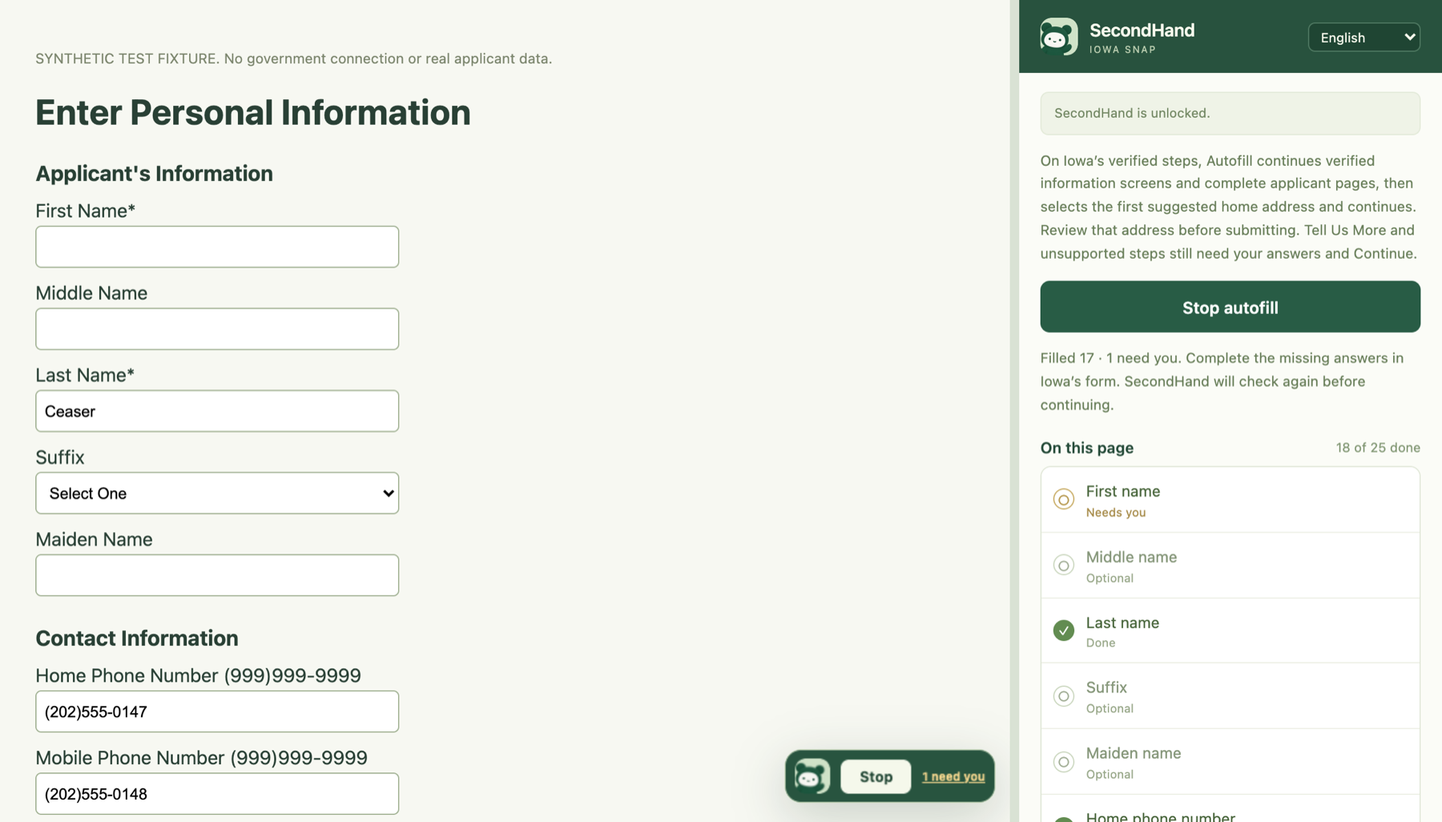
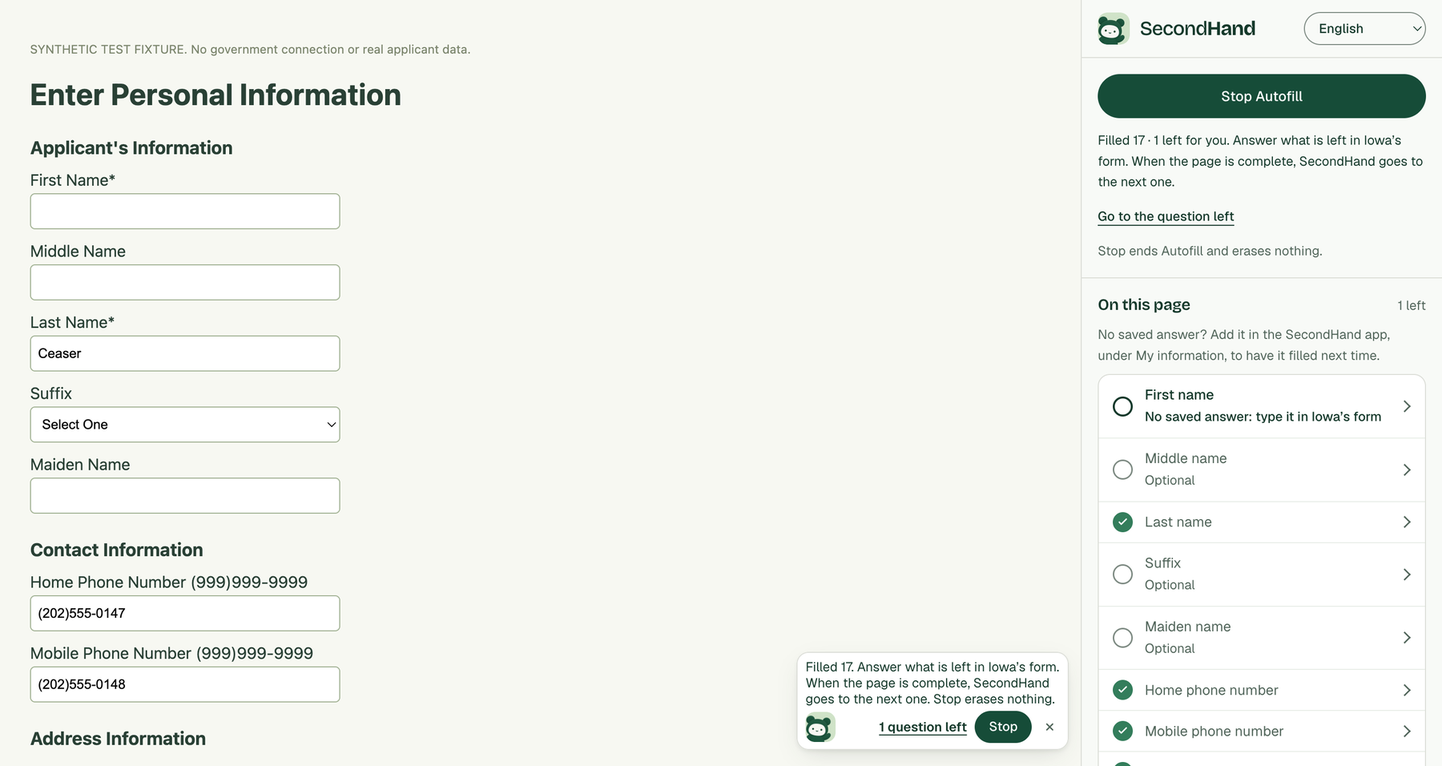
docs: describe the redesigned card and side panel
The README and the setup guide now say what the card and the side panel
say: "1 question left" in place of the yellow "need you" link, "Needs
your answer" in the checklist, the security check in place of CAPTCHA,
Start Autofill and Stop Autofill, the × that hides the card to its logo,
Unlock with Touch ID, and the Restart the card offers when Chrome runs
an older copy than the files it loaded. The contract notes the named
lists a general-engine fill result carries, and the QA guide lists the
new capture states. The README's recording and side panel picture are
taken again from this build.

diff --git a/docs/setup.md b/docs/setup.md
@@ -20,7 +20,7 @@ Create a password of at least 12 characters. SecondHand then shows a one-time re
 3. Turn on **Developer mode**, choose **Load unpacked**, and select the prepared folder. Use **Copy folder path** in SecondHand to find it:
    - On Mac, press **Command + Shift + G** inside Chrome's folder chooser, paste the path, and open/select that folder.
    - On Windows, paste the path into the folder chooser's address bar, then choose **Select Folder**.
-4. Keep the desktop app running and unlocked while using the extension. A SecondHand widget appears in the bottom-right corner of Iowa's portal. On the supported applicant page it shows an **Autofill** button; on other pages it is a small **s.** button that opens the side panel.
+4. Keep the desktop app running and unlocked while using the extension. A SecondHand card appears in the bottom-right corner of Iowa's portal. On a page it can fill it says what Autofill will do and shows an **Autofill** button; on other pages only its round logo shows, which opens the side panel.
 
 There is no extension ID to copy for the bundled extension. Preparing files does **not** install the extension in Chrome: you still complete steps 2–3 yourself. The setup screen cannot verify that you have completed Chrome's installation. Managed school or work browsers may prohibit unpacked extensions; follow that device's policy.
 
@@ -28,13 +28,13 @@ The prepared extension folder stays in the local SecondHand app-data directory. 
 
 ## Apply on Iowa's portal
 
-Open [Iowa's Self-Service Portal](https://hhsservices.iowa.gov/apspssp/ssp.portal) in **Chrome**. The desktop's portal button uses your default browser, which may be different. The widget and side panel identify the current step without retrieving your saved profile. Choose the guest flow or create/sign into your own Iowa account. Complete the initial program-intent screen, verification, and data-use consent yourself.
+Open [Iowa's Self-Service Portal](https://hhsservices.iowa.gov/apspssp/ssp.portal) in **Chrome**. The desktop's portal button uses your default browser, which may be different. The card and side panel identify the current step without retrieving your saved profile. Choose the guest flow or create/sign into your own Iowa account. Complete the initial program-intent screen, verification, and data-use consent yourself.
 
-Start the application and click **Autofill** in the widget (or **Autofill this page** in the side panel). Autofill then stays on for that tab and works screen by screen:
+Start the application and click **Autofill** on the card (or **Start Autofill** in the side panel). Autofill then stays on for that tab and works screen by screen:
 
 | Screen | What Autofill does |
 | --- | --- |
-| Household Application Information | Picks **Yes** when one of your saved programs (SNAP, FIP, Medicaid) is an explicit Yes, then asks you to solve the CAPTCHA and click Continue |
+| Household Application Information | Picks **Yes** when one of your saved programs (SNAP, FIP, Medicaid) is an explicit Yes, then asks you to type the characters in Iowa's security check (the CAPTCHA) and click Continue |
 | Before You Start, Important Information, Instructions | Clicks Continue for you (these screens send no answers) |
 | Let's get started | Waits for you to read and accept Iowa's consent |
 | About you, Assisting Organization or Person | Waits for you to click Continue (leave the assisting fields blank if nobody is helping you) |
@@ -43,16 +43,16 @@ Start the application and click **Autofill** in the widget (or **Autofill this p
 | Tell Us More (verified primary-applicant context) | Fills saved date of birth. On the `dynamicQuestionsStart` layout it also fills the answers you saved under **About you** in My information: male or female, marital status, having a Social Security number (never the number itself) and whether your name matches the card, U.S. citizenship, military or veteran, disabled, blind, health limitation, and Medicare. A question you haven't saved, and Continue, stay manual |
 | Other Iowa pages | May fill generic rule matches after desktop approval; review them and continue yourself. Unmatched or protected steps remain manual |
 
-After you finish a step and continue, Autofill picks up on the next screen. Click **Stop** in the widget, or **Stop autofill** in the side panel, to end it. Locking SecondHand, leaving Iowa's site, or closing the tab also ends it, and it stops after 15 automatic steps so you can check where you are.
+After you finish a step and continue, Autofill picks up on the next screen. Click **Stop** on the card, or **Stop Autofill** in the side panel, to end it. Stop erases nothing. Locking SecondHand, leaving Iowa's site, or closing the tab also ends it, and it stops after 15 automatic steps so you can check where you are.
 
 On **Enter Personal Information**, one click fills every empty supported field from your saved profile. It also fills fields that your saved answers reveal, such as a separate mailing address. It fills explicit saved Yes/No and program choices but never infers them from your address, income, or other facts. It never changes an answer that is already on the page.
 
-The first time, the desktop app asks before sharing your saved answers. Choose **Allow once** to be asked again next time, or **Always allow on this computer** to skip the pop-up whenever the app is unlocked. Turn that off under **Chrome extension → Let Chrome autofill without asking**. Locking the vault, manually, after 10 idle minutes, or when your computer sleeps or locks, stops autofill until you unlock again. The widget then shows **Unlock SecondHand**, which brings the app to the front.
+The first time, the desktop app asks before sharing your saved answers. Choose **Allow once** to be asked again next time, or **Always allow on this computer** to skip the pop-up whenever the app is unlocked. Turn that off under **Chrome extension → Let Chrome autofill without asking**. Locking the vault, manually, after 10 idle minutes, or when your computer sleeps or locks, stops autofill until you unlock again. The card then shows **Unlock SecondHand**, which brings the app to the front; the side panel's **Unlock** does the same, or offers **Unlock with Touch ID** on a Mac where the app has it turned on.
 
 
-After filling, the card shows a yellow **N need you** link when something is missing. Click it to jump to each missing field in turn. Click the SecondHand logo on the card to open the side panel, which shows how many answers were filled and lists each relevant question as **Done**, **Needs you**, **Optional**, or **Do it yourself**. Click a row to bring that field into view. Checkmarks describe the form's completeness, not agency approval.
+After filling, the card says what Autofill did and shows an **N questions left** link when something is missing. Click it to jump to each missing field in turn. The card's × hides it to its logo for the rest of that tab; the logo brings it back, and carries a dot while the hidden card has something for you. Click the logo to open the side panel, which says what was filled, has a **Go to the question left** link, and lists each relevant question as **Done**, **Needs your answer**, **Optional**, or **Do it yourself**. Click a row to bring that field into view. Checkmarks describe the form's completeness, not agency approval.
 
-Autofill can use **Save and Continue** on the verified complete applicant page and home-address confirmation. It never operates consent, CAPTCHA, sign-in, signature, or final Submit controls. Iowa may save answers as they are entered or a page is continued. Review every answer and the selected address before final submission.
+Autofill can use **Save and Continue** on the verified complete applicant page and home-address confirmation. It never operates consent, the security check (CAPTCHA), sign-in, signature, or final Submit controls. Iowa may save answers as they are entered or a page is continued. Review every answer and the selected address before final submission.
 
 **Current scope is the initial applicant page:** names, suffix, maiden name, explicit home/mobile phones, home/mailing addresses and address questions, applying-for-benefits choice, saved SNAP/FIP/Medicaid choices, optional medical-bill help choice, and best time to call. This development branch also covers the verified home-address selection and the Tell Us More answers described above. Tell Us More answers you haven't saved and its Next button remain manual. Generic rule matching may help fill other unverified Iowa pages, but it does not give those pages verified mappings or automatic Next. Public 0.4 installers predate these changes. The helper can scroll rendered fields into view; it skips hidden, covered, ambiguous, and already-entered fields. Review every filled answer. Iowa can receive or save information as it is entered, and Save and Continue sends the page's current answers to Iowa.
 
@@ -68,11 +68,11 @@ To turn it off, choose **Turn off on all websites** in the sidebar, or **Turn of
 
 ## Updates and troubleshooting
 
-- **Update the desktop app:** install the new version and open it. The next time the extension talks to the app, for example when you open the side panel or click **Autofill**, the app refreshes its extension folder and SecondHand reloads itself in Chrome. It waits until no Autofill is on and no fill, approval, or click is under way, and while a page still shows questions that need you or answers to save, until you leave that page or close its tab. The side panel then says once that SecondHand was updated. SecondHand’s button on a form page that was open asks you to reload that page: save or finish unsaved work first, because Iowa's guest flow can lose unsaved answers. If Chrome asks, review the updated permissions. The extension ID and local folder stay the same. Keep **Developer mode** on at `chrome://extensions`: Chrome turns unpacked extensions off without it.
+- **Update the desktop app:** install the new version and open it. The next time the extension talks to the app, for example when you open the side panel or click **Autofill**, the app refreshes its extension folder and SecondHand reloads itself in Chrome. It waits until no Autofill is on and no fill, approval, or click is under way, and while a page still shows questions that need you or answers to save, until you leave that page or close its tab. The side panel then says once that SecondHand was updated. On a form page that was open, SecondHand's card says it is back on the next page and asks you to reload this one, or go on: save or finish unsaved work first, because Iowa's guest flow can lose unsaved answers. If the card says SecondHand was updated and offers **Restart** (Chrome has the new files but still runs the old copy), click **Restart**, then reload the page or go on to the next one. If Chrome asks, review the updated permissions. The extension ID and local folder stay the same. Keep **Developer mode** on at `chrome://extensions`: Chrome turns unpacked extensions off without it.
 - **Went back to an older app:** an older app never replaces the newer extension files a newer app prepared, so SecondHand keeps the newer extension. **Refresh extension files** in the older app says so. Install the newer app again to update.
 - **Update from a version without automatic updates (including public 0.4):** that extension can't update itself, so do it once by hand. Open **Chrome extension** in the app, choose **Refresh extension files**, then click **Reload** for SecondHand on `chrome://extensions`, and reload your Iowa tab. Later updates are automatic.
 - **The side panel shows update steps:** if it says SecondHand couldn't update its extension files, the app couldn't write its folder. Choose **Refresh extension files** on the app's **Chrome extension** page, then click **Reload** for SecondHand on `chrome://extensions`. If it says Chrome is running a copy the app doesn't update, Chrome loads SecondHand from another folder. Remove that copy on `chrome://extensions`, then **Load unpacked** the folder from **Copy folder path**.
-- **Helper does not appear:** confirm SecondHand is enabled at `chrome://extensions`, its Iowa site access is allowed, and you are on the official portal in Chrome. Reload the Iowa tab after installing or reloading the extension. Click the widget or the toolbar icon to open the side panel. No saved profile values are requested merely by opening it.
+- **Helper does not appear:** confirm SecondHand is enabled at `chrome://extensions`, its Iowa site access is allowed, and you are on the official portal in Chrome. Reload the Iowa tab after installing or reloading the extension. Click the card's logo or the toolbar icon to open the side panel. No saved profile values are requested merely by opening it.
 - **Moved the app:** prepare/refresh the extension again to update Chrome's native-host registration. On Mac, keep the app in Applications rather than running it from the mounted disk image.
 - **Cannot reach the vault:** open/unlock SecondHand, refresh the extension files, reload the extension in Chrome, and try again. Only Chrome is configured by this setup; Edge and other browsers are not automatically configured.
 - **Old manually unpacked copy:** remove the old copy from Chrome, then load the folder prepared by this version. The app preserves vault data when refreshing extension assets.

diff --git a/README.md b/README.md
@@ -19,7 +19,7 @@
 </p>
 
 <p align="center">
-  <img src="docs/media/autofill.gif" width="880" alt="The SecondHand card in the corner of Iowa's application. A click on Autofill fills the saved answers, a yellow '1 need you' link appears, and clicking it jumps to the empty First Name field, where Daniel is typed.">
+  <img src="docs/media/autofill.gif" width="880" alt="The SecondHand card in the corner of Iowa's application. A click on Autofill fills the saved answers, a '1 question left' link appears, and clicking it jumps to the empty First Name field, where Daniel is typed. The page is then complete, so SecondHand clicks Save and Continue.">
   <br>
   <sub>A fictional applicant on a synthetic copy of Iowa's form. Nothing is sent anywhere.</sub>
 </p>
@@ -33,10 +33,10 @@
 - **Sets up in about five minutes.** Right after you create your password, a short guided setup walks you through six steps: you, your household, where you live, income and money on hand, programs, and Iowa's questions about you. Each step is saved as you go. Skip it, or stop part way, and finish it later from Overview.
 - **Knows your household.** List the people you live with once, with their birth dates. SecondHand works out the counts forms ask for, such as "How many people 0–17?", "18–59", or "60 and older", and fills a student's name and grade when one person on the list is a student. It never guesses a guardian's name.
 - **Fills Iowa's application in one click.** Click **Autofill** in the corner of Iowa's portal. SecondHand fills the questions it knows, moves past screens that only give information, and stops wherever you're needed.
-- **Shows what still needs you.** A yellow **1 need you** link jumps to each missing answer. Click the SecondHand logo on the card to open Chrome's side panel, which marks every question on the page as **Done**, **Needs you**, **Optional**, or **Do it yourself**.
+- **Shows what is left for you.** The card says what Autofill did, and a **1 question left** link jumps to each missing answer. Click the SecondHand logo on the card to open Chrome's side panel, which marks every question on the page as **Done**, **Needs your answer**, **Optional**, or **Do it yourself**. The card's × hides it to its logo until you want it back.
 - **Saves what you type for next time.** When Autofill finds a question it knows but you hadn't saved an answer for, answer it on the page and click **Save to My information** in the side panel. SecondHand reads that one answer only after your click, and the app asks before it saves it.
 - **Answers the questions the rules miss.** Laya, a small AI model that runs inside the desktop app, picks an answer from your saved facts when it's confident, and marks it as a guess for you to check. When your facts don't say, it leaves the question for you.
-- **Leaves the decisions to you.** The app asks before sharing anything, unless you choose **Always allow**. CAPTCHA, consent, signatures, and final submission are always yours.
+- **Leaves the decisions to you.** The app asks before sharing anything, unless you choose **Always allow**. Iowa's security check (the CAPTCHA), consent, signatures, and final submission are always yours.
 - **Speaks your language.** The side panel works in English, Spanish, Vietnamese, Chinese, French, and Arabic. It can show Iowa's questions in your language and sum up long pages, using Chrome's built-in translator and summarizer on your computer.
 - **Helps with other food-assistance forms.** Turn SecondHand on for a food pantry's form site, or for every site at once with **Use SecondHand on all websites** in Chrome's side panel. It fills what it recognizes, one click at a time, and never navigates or submits on those sites. With all websites on, its card shows only on pages with a form it can help with.
 
@@ -46,9 +46,9 @@
 | --- | --- |
 | <img src="docs/media/desktop-my-information.png" alt="The My information page of the SecondHand desktop app, with the fictional applicant Daniel Ceaser's name, date of birth, and program choices" width="100%"> | <img src="docs/media/desktop-overview.png" alt="The SecondHand desktop app's Overview: a Prepare my application button, three next steps, and one Iowa SNAP application in progress" width="100%"> |
 
-**On Iowa's portal, with Chrome's side panel open.** The card in the corner says one answer still needs you; the side panel shows which one.
+**On Iowa's portal, with Chrome's side panel open.** The card in the corner says one question is left for you; the side panel shows which one.
 
-<img src="docs/media/side-panel.png" alt="Iowa's Enter Personal Information page with Last Name filled and First Name empty, the SecondHand card showing Stop and 1 need you, and the side panel checklist marking First name as Needs you and Last name as Done" width="100%">
+<img src="docs/media/side-panel.png" alt="Iowa's Enter Personal Information page with Last Name filled and First Name empty, the SecondHand card showing Stop and 1 question left, and the side panel checklist marking First name as having no saved answer to type in Iowa's form, and Last name as Done" width="100%">
 
 ## How it works
 
@@ -88,7 +88,7 @@ Rules fill the questions SecondHand knows. For the rest, the desktop app asks La
 2. **The desktop app writes your saved profile as plain facts**, such as "The household has 1 person", on your computer.
 3. **Laya scores every option.** For each one it answers a single yes/no question: given the facts about the household, is this the correct answer to the form question? "None of these, or the facts don't say" is scored too.
 4. **It fills only a sure answer**, one that scores over 0.9 and beats "None of these". The answer gets a dashed amber outline and the summary says it was suggested by Laya, so you know to check it. On sites other than Iowa's portal, the app asks before it uses sensitive details such as your age.
-5. **Otherwise the question stays yours**, marked **Needs you** in the side panel.
+5. **Otherwise the question stays yours**, marked **Needs your answer** in the side panel.
 
 Laya also matches text boxes the rules don't recognize to the saved detail they ask for, such as a differently worded name or phone field.
 
@@ -100,14 +100,14 @@ Laya is [fine-tuned](docs/laya-model.md) from the open [Laya](https://huggingfac
 2. **Create a password.** Save the recovery key the app shows you somewhere safe, away from the computer. If you ever forget your password, choose **Forgot password?** and use that key, or reset it on the same computer if you left that option on. With neither, **Start over** erases the saved information so you can make a new password.
 3. **Add the extension to Chrome.** In the app, open **Chrome extension** and click **Prepare Chrome extension**. In Chrome, go to `chrome://extensions`, turn on **Developer mode**, click **Load unpacked**, and choose the folder the app prepared (**Copy folder path** helps you find it). You only do this once.
 4. **Apply.** Keep SecondHand unlocked and open [Iowa's portal](https://hhsservices.iowa.gov/apspssp/ssp.portal) in Chrome 116 or newer. Start your application and click **Autofill** in the bottom-right corner. The first time, the app asks: choose **Allow once**, or **Always allow on this computer**.
-5. **Finish it yourself.** Click **need you** to jump to anything missing. Review every answer, including the home address SecondHand picked. Then do the consent, signatures, and submission, and save Iowa's confirmation number under **Applications** in the app.
+5. **Finish it yourself.** Click **1 question left** on the card to jump to anything missing. Review every answer, including the home address SecondHand picked. Then do the consent, signatures, and submission, and save Iowa's confirmation number under **Applications** in the app.
 
 The [setup guide](docs/setup.md) covers each step in detail, including how to find the folder on a Mac and what to do when something goes wrong.
 
 <details>
 <summary><strong>Updating from an earlier version</strong></summary>
 
-Install the new app and open it. The next time you use the extension, SecondHand refreshes its files and reloads itself in Chrome, once nothing is filling. The side panel then says it was updated. Reload any form page that was open, after you save or finish it, so reloading doesn't lose unsaved answers. Keep **Developer mode** on at `chrome://extensions`, or Chrome turns SecondHand off.
+Install the new app and open it. The next time you use the extension, SecondHand refreshes its files and reloads itself in Chrome, once nothing is filling. The side panel then says it was updated. On a form page that was open, the card says SecondHand is back on the next page: reload that page, after you save or finish it so reloading doesn't lose unsaved answers, or go on to the next one. If the card instead says SecondHand was updated and offers **Restart**, click it first. Keep **Developer mode** on at `chrome://extensions`, or Chrome turns SecondHand off.
 
 Coming from a version without automatic updates, such as the public 0.4 downloads, do it by hand once: open **Chrome extension** in the app and click **Refresh extension files**, then click **Reload** for SecondHand at `chrome://extensions` and reload your Iowa tab. If Chrome asks, review the updated permissions.
 
@@ -119,14 +119,14 @@ Autofill works screen by screen and stays on for the tab until you click **Stop*
 
 | Iowa screen | What SecondHand does |
 | --- | --- |
-| Household Application Information | Picks **Yes** when one of your saved programs is a clear yes. You solve the CAPTCHA and continue. |
+| Household Application Information | Picks **Yes** when one of your saved programs is a clear yes. You type the characters in Iowa's security check and continue. |
 | Before You Start, Important Information, Instructions | Clicks Continue for you. These screens send no answers. |
 | Let's get started, About you | Waits for you to accept Iowa's consent or click Continue. |
 | **Enter Personal Information** | Fills your saved names, phones, home and mailing addresses, and program choices. Waits for missing required answers, then clicks Save and Continue. |
 | Select Address (verified home-only layout) | Picks Iowa's first suggested home address and continues. Check it before you submit. |
 | Tell Us More | Fills your saved date of birth and the answers you saved under About you in My information. Anything not saved stays with you. |
 | Other Iowa pages | May fill matching saved answers after you approve, and Laya's sure answers to other questions, marked as guesses. You continue. |
-| CAPTCHA, consent, signatures, final Submit | Never touched. |
+| Security check (CAPTCHA), consent, signatures, final Submit | Never touched. |
 
 The Select Address and Tell Us More steps and Laya are in this code but not yet in the public 0.4 downloads. SecondHand never changes an answer already on the page, and any answer Laya picks is marked as a guess for you to check. [Portal coverage](docs/iowa-portal.md) has the exact field list.
 

diff --git a/docs/security.md b/docs/security.md
@@ -66,7 +66,7 @@ The extension uses Manifest V3, `activeTab`, `scripting`, `nativeMessaging`, and
 
 The page-hosted widget is an extension-origin iframe inside a closed shadow root, so the page cannot script it. The worker binds its requests to the iframe's own tab and accepts Autofill only from a trusted click with `confirmed: true`. The checklist lives in Chrome’s native sidebar. The worker accepts applicant operations only from the supported extension surfaces; content scripts and page `postMessage` calls have no direct path to the vault. Displaying either surface does not start filling. Iowa requests validate the exact HTTPS origin and portal path; other sites use their approved HTTPS origins.
 
-The widget and sidebar receive field metadata, completion/missing/manual status, counts, and messages, never saved profile values or input values entered on the page. The one path that reads an answer typed on the page is [Save to My information](#save-to-my-information), and only after the applicant's click; that answer goes to the desktop app, not to either surface. Clicking a checklist item or a **need you** link asks the content script to focus the corresponding control; it does not retrieve a saved answer. Generic mapping may send unmatched field labels, types, and choice text to Chrome's on-device AI in the extension page. It receives only allowed profile-key names, never saved answers, and has no cloud fallback. The mapper uses an already available local model rather than starting a model download. Plans and autofill results live in worker memory and clear when the tab navigates or closes, or when Chrome stops the idle worker (the next Autofill finds them again); no applicant record is written to extension storage or an application backend.
+The widget and sidebar receive field metadata, completion/missing/manual status, counts, and messages, never saved profile values or input values entered on the page. The one path that reads an answer typed on the page is [Save to My information](#save-to-my-information), and only after the applicant's click; that answer goes to the desktop app, not to either surface. Clicking a checklist item, the side panel's **Go to the question left** link, or the card's **questions left** link asks the content script to focus the corresponding control; it does not retrieve a saved answer. The named lists of questions filled and left, shown on other websites, carry the form's own labels, never answers. Generic mapping may send unmatched field labels, types, and choice text to Chrome's on-device AI in the extension page. It receives only allowed profile-key names, never saved answers, and has no cloud fallback. The mapper uses an already available local model rather than starting a model download. Plans and autofill results live in worker memory and clear when the tab navigates or closes, or when Chrome stops the idle worker (the next Autofill finds them again); no applicant record is written to extension storage or an application backend.
 
 The sidebar's "What this page says" section sends a page's visible text to Chrome's on-device Summarizer in the extension page. The text leaves out form controls, their choices, SecondHand's widget, and hidden content, so it never holds a typed or saved answer. On Iowa, only the information-only screens are read. Other sites are read only after they are turned on. The Summarizer model downloads only after the applicant clicks. Page text and key points live in worker memory for the tab. Iowa screens are kept until the tab leaves Iowa or closes. There is no cloud fallback.
 

diff --git a/docs/implementation-contract.md b/docs/implementation-contract.md
@@ -117,7 +117,7 @@ Both may poll `ui:pageState`, send `ui:focusField` from a trusted click, and sen
 
 A step runs when the tab finishes loading and on widget polls. Autopilot turns off after 15 steps, on a locked or unreachable desktop, on a cancelled or failed fill, when the tab closes, or when a page load leaves Iowa's portal. The worker re-reads the tab on every load, because Chrome hides other sites' URLs without the `tabs` permission. Values are released when each fill finishes.
 
-The result is `{ state: 'done' | 'waiting' | 'continuing' | 'stopped' | 'locked' | 'offline' | 'error', filled, needYou, message, todo?, pageKey }`. It is kept per tab until that tab navigates. `ui:pageState` returns `{ page, scan, result, autopilot }`.
+The result is `{ state: 'done' | 'waiting' | 'continuing' | 'stopped' | 'locked' | 'offline' | 'error', filled, needYou, message, todo?, pageKey }`. A general-engine fill (an approved site, or an Iowa page the adapter hasn't verified) adds `left: [{ key, label }]`, the questions left for the applicant with the form's own labels, and `filledQuestions: [{ label, guessed }]` (at most 80), the questions it filled; the side panel lists both by label. It is kept per tab until that tab navigates. `ui:pageState` returns `{ page, scan, result, autopilot }`.
 
 Save to My information (#98): after a general-engine fill (an approved site, or an Iowa page the adapter hasn't verified), the worker keeps, per tab and in memory only, the questions the rules matched to a `SAVE_FIELDS` key whose saved value was blank: `{ frameId, planId, token, key, label }`, forgotten when the tab navigates or a new fill replaces them. For the side panel only, `ui:pageState` adds `savable: [{ id, label, answered }]` when there are any; `answered` comes from the content script's `secondhand:generic:answered { token, ids }` reply, which lists which of those plan ids hold an answer and nothing else. `ui:saveAnswer { id, confirmed: true }` is accepted only from the side panel's trusted click. The worker checks the id is kept, the tab's address unchanged, and the site (and that frame) still on, then sends `secondhand:generic:read { token, id, key }`. The engine answers `{ value }` in the profile's format, `{ empty }`, `{ unreadable }` (a typed date is read only in the order its box asks for, or when its numbers allow one order), `{ repeated }` when the page asks for the same field in more than one box (#142), or `{ readable: false }` for a box it may not read (not in its current plan, not the key its rules matched there, a password, code, signature, consent, security-question, username or SSN box, or a box naming another person). The value goes only into `saveFields` and is not kept.
 

diff --git a/docs/extension-qa.md b/docs/extension-qa.md
@@ -89,8 +89,8 @@ it actually shows.
 ## Screenshots of every surface
 
 `npm run capture:ui -- <label>` loads the extension in the same isolated Chromium and saves each state of
-the card and the side panel as `docs/pr-media/<shot>-<label>.png`: ready, filled, locked, the app closed,
-another website, Spanish, Arabic, and an outdated build. Run it with `before` on main and `after` on a
+the card and the side panel as `docs/pr-media/<shot>-<label>.png`: ready, working, filled, hidden to its
+logo, locked, the app closed, another website, Spanish, Arabic, and an outdated build. Run it with `before` on main and `after` on a
 branch to compare them in a pull request. Shot names after the label limit the run to those shots; a name
 that ends in a hyphen takes every shot that starts with it, as in `npm run capture:ui -- after card- panel-iowa`.
 
